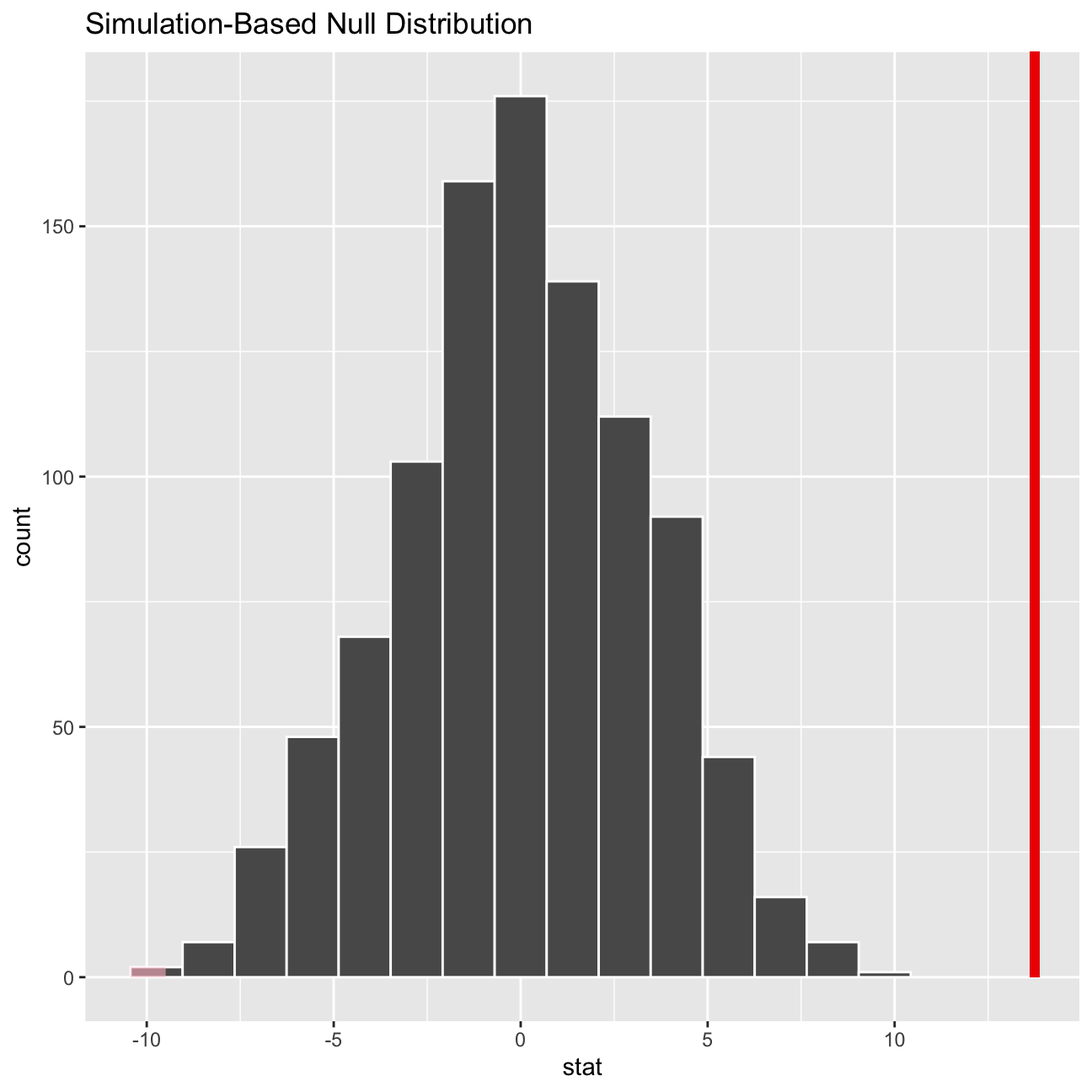
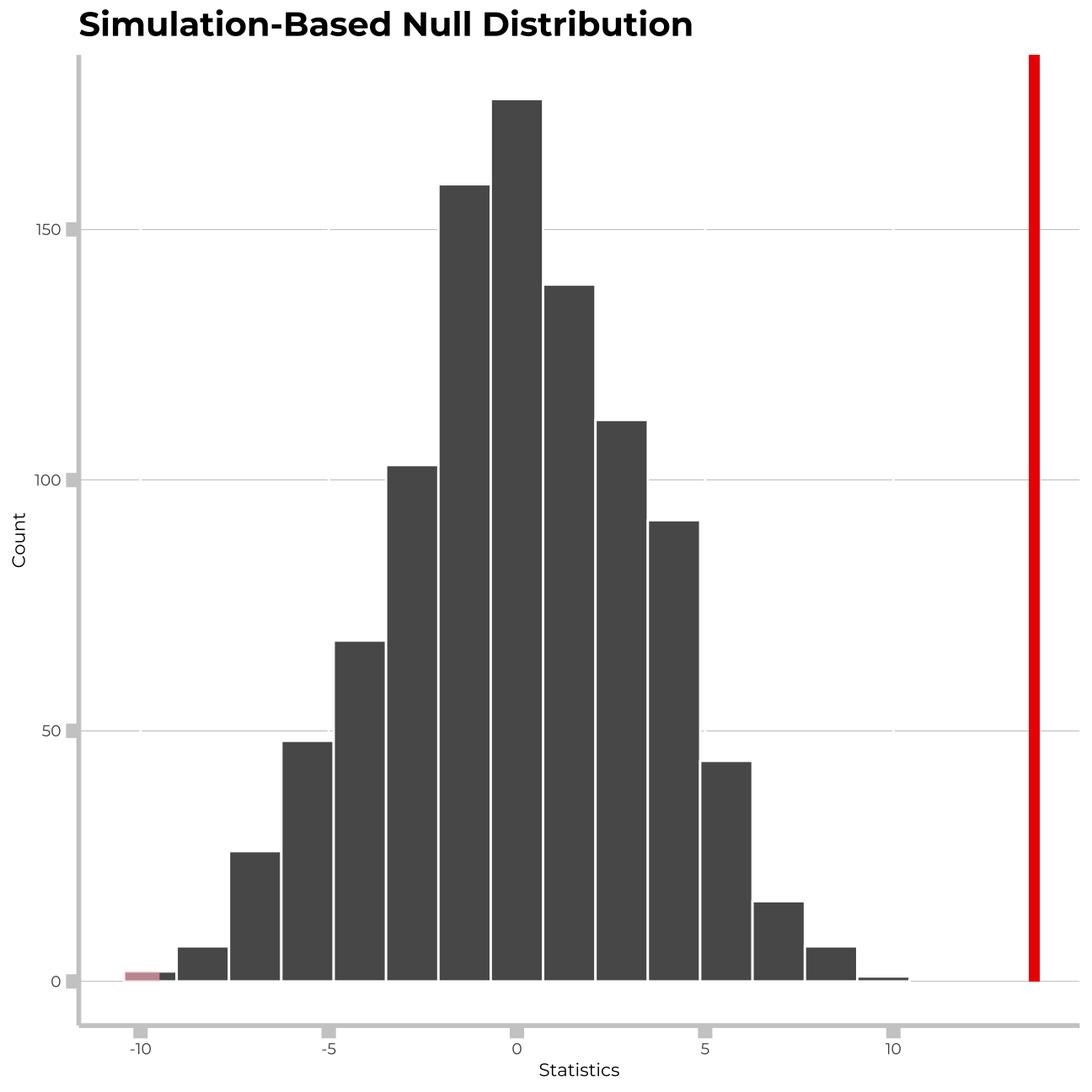
final final project 2

diff --git a/content/portfolio/project-02.html b/content/portfolio/project-02.html
@@ -13,26 +13,25 @@ type: portfolio
 <div id="omega-group-plc--pay-discrimination" class="section level1">
 <h1>Omega Group plc- Pay Discrimination</h1>
 <p>At the last board meeting of Omega Group Plc., the headquarters of a large multinational company, the issue was raised that women were being discriminated in the company, in the sense that the salaries were not the same for male and female executives. A quick analysis of a sample of 50 employees (of which 24 men and 26 women) revealed that the average salary for men was about 8,700 higher than for women. This seemed like a considerable difference, so it was decided that a further analysis of the company salaries was warranted.</p>
-<p>You are asked to carry out the analysis. The objective is to find out whether there is indeed a significant difference between the salaries of men and women, and whether the difference is due to discrimination or whether it is based on another, possibly valid, determining factor.</p>
-<div id="loading-the-data" class="section level2">
-<h2>Loading the data</h2>
-<pre class="r"><code>omega &lt;- omega &lt;- read_csv(&quot;~/Documents/Applied Statistics in R/homeworks/data/omega.csv&quot;)
-glimpse(omega) # examine the data frame</code></pre>
+<p>In this project I will carry out the analysis with the objective to find out whether there is indeed a significant difference between the salaries of men and women, and whether the difference is due to discrimination or whether it is based on another, possibly valid, determining factor.</p>
+<pre class="r"><code>omega &lt;- omega &lt;- read_csv(&quot;~/Documents/Applied Statistics in R/homeworks/data/omega.csv&quot;)</code></pre>
+<pre class="r"><code>glimpse(omega) # examine the data frame</code></pre>
 <pre><code>## Rows: 50
 ## Columns: 3
 ## $ salary     &lt;dbl&gt; 81894, 69517, 68589, 74881, 65598, 76840, 78800, 70033, 63…
 ## $ gender     &lt;chr&gt; &quot;male&quot;, &quot;male&quot;, &quot;male&quot;, &quot;male&quot;, &quot;male&quot;, &quot;male&quot;, &quot;male&quot;, &quot;m…
 ## $ experience &lt;dbl&gt; 16, 25, 15, 33, 16, 19, 32, 34, 1, 44, 7, 14, 33, 19, 24, …</code></pre>
-</div>
 <div id="relationship-salary---gender" class="section level2">
 <h2>Relationship Salary - Gender ?</h2>
-<p>The data frame <code>omega</code> contains the salaries for the sample of 50 executives in the company. Can you conclude that there is a significant difference between the salaries of the male and female executives?</p>
-<p>Note that you can perform different types of analyses, and check whether they all lead to the same conclusion</p>
+<p>The data frame <code>omega</code> contains the salaries for the sample of 50 executives in the company.</p>
+<p>Can we conclude that there is a significant difference between the salaries of the male and female executives?</p>
+<p>To check it, I will perform different types of analyses, and check whether they all lead to the same conclusion</p>
 <p>. Confidence intervals
 . Hypothesis testing
 . Correlation analysis
 . Regression</p>
-<p>Calculate summary statistics on salary by gender. Also, create and print a dataframe where, for each gender, you show the mean, SD, sample size, the t-critical, the SE, the margin of error, and the low/high endpoints of a 95% condifence interval</p>
+<p>I will alculate summary statistics on salary by gender.</p>
+<p>Also, I will create and print a dataframe where, for each gender, I show the mean, SD, sample size, the t-critical, the SE, the margin of error, and the low/high endpoints of a 95% condifence interval</p>
 <pre class="r"><code># Summary Statistics of salary by gender
 df_by_gender&lt;-mosaic::favstats (salary ~ gender, data=omega)
 
@@ -47,18 +46,30 @@ df_by_gender2</code></pre>
 <pre><code>##   gender  mean   sd  n t_critical standard_error upper_95 lower_95
 ## 1 female 64543 7567 26       2.06           1484    67599    61486
 ## 2   male 73239 7463 24       2.07           1523    76390    70088</code></pre>
-<pre class="r"><code># We can see that the confidence intervals for men and women in regards to salary do not overlap. This would allow us to reject the null hypothesis, but we will carry out hypothesis testing anyway and analyse the relationships between all the remaining factors.
+<pre class="r"><code>#I can see that the confidence intervals for men and women in regards to salary do not overlap. This would allow us to reject the null hypothesis, but we will carry out hypothesis testing anyway and analyse the relationships between all the remaining factors.
 
-#We will draw a scatterplot to visually inspect relationship between salary and experience
-
-ggplot(omega,aes(x=experience,y=salary, colour= gender,fill=gender)) +
+#I will draw a scatterplot to visually inspect relationship between salary and experience</code></pre>
+<pre class="r"><code>ggplot(omega,aes(x=experience,y=salary, colour= gender,fill=gender)) +
   geom_point() +
   geom_smooth() +
-  labs(title = &quot;Experience is Valued Highly at Omega&quot;, x=&quot;Years of experience&quot;, y= &quot;Salary (in USD)&quot;) +
-  theme_bw()</code></pre>
-<p><img src="/portfolio/project-02_files/figure-html/confint_single_valiables-1.png" width="648" style="display: block; margin: auto;" /></p>
-<p>We can observe a strong relationship between salary and experience. Increase in salary comes quickly at the beginning and throughout the first ~15 years, however the gains in salary become slower later over time, displaying diminishing marginal returns.</p>
-<p>We will further investigate the difference between salaries by gender through hypothesis testing, utilizing both t.test() and the simulation method from the infer package.</p>
+  labs(title = &quot;Experience is Valued Highly at Omega&quot;, x=&quot;Years of experience&quot;, y= &quot;Salary&quot;) +
+  theme_bw()+
+    scale_y_continuous(labels = scales::dollar) +
+  theme(panel.grid.major.y = element_line(color = &quot;gray60&quot;, size = 0.1),
+        panel.background = element_rect(fill = &quot;white&quot;, colour = &quot;white&quot;),
+        axis.line = element_line(size = 1, colour = &quot;grey80&quot;),
+        axis.ticks = element_line(size = 3,colour = &quot;grey80&quot;),
+        axis.ticks.length = unit(.20, &quot;cm&quot;),
+        plot.title = element_text(color = &quot;black&quot;,size=15,face=&quot;bold&quot;, family= &quot;Montserrat&quot;),
+        axis.title.y = element_text(size = 8, angle = 90, family=&quot;Montserrat&quot;, face = &quot;plain&quot;),
+        axis.text.y=element_text(family=&quot;Montserrat&quot;, size=7),
+        axis.title.x = element_text(size = 8, family=&quot;Montserrat&quot;, face = &quot;plain&quot;),
+        axis.text.x=element_text(family=&quot;Montserrat&quot;, size=7),
+        legend.text=element_text(family=&quot;Montserrat&quot;, size=7),
+        legend.title=element_text(family=&quot;Montserrat&quot;, size=8, face=&quot;bold&quot;))</code></pre>
+<p><img src="/portfolio/project-02_files/figure-html/unnamed-chunk-2-1.png" width="648" style="display: block; margin: auto;" /></p>
+<p>I can observe a strong relationship between salary and experience. Increase in salary comes quickly at the beginning and throughout the first ~15 years, however the gains in salary become slower later over time, displaying diminishing marginal returns.</p>
+<p>I will further investigate the difference between salaries by gender through hypothesis testing, utilizing both t.test() and the simulation method from the infer package.</p>
 <pre class="r"><code># hypothesis testing using t.test() 
 t.test(salary~gender, data=omega)</code></pre>
 <pre><code>## 
@@ -81,7 +92,22 @@ salary_by_gender&lt;- omega %&gt;%
   calculate(stat=&quot;diff in means&quot;,
             order=c(&quot;male&quot;,&quot;female&quot;))
 
-salary_by_gender %&gt;% visualize()+shade_p_value(obs_stat = df_by_gender2[2,2]-df_by_gender2[1,2], direction = &quot;both&quot;)</code></pre>
+salary_by_gender %&gt;% 
+  visualize()+
+  shade_p_value(obs_stat = df_by_gender2[2,2]-df_by_gender2[1,2], direction = &quot;both&quot;)+ 
+    labs(title = &quot;Simulation-Based Null Distribution&quot;, x=&quot;Average Salary&quot;, y= &quot;Count&quot;)+
+  theme(panel.grid.major.y = element_line(color = &quot;gray60&quot;, size = 0.1),
+        panel.background = element_rect(fill = &quot;white&quot;, colour = &quot;white&quot;),
+        axis.line = element_line(size = 1, colour = &quot;grey80&quot;),
+        axis.ticks = element_line(size = 3,colour = &quot;grey80&quot;),
+        axis.ticks.length = unit(.20, &quot;cm&quot;),
+        plot.title = element_text(color = &quot;black&quot;,size=15,face=&quot;bold&quot;, family= &quot;Montserrat&quot;),
+        axis.title.y = element_text(size = 8, angle = 90, family=&quot;Montserrat&quot;, face = &quot;plain&quot;),
+        axis.text.y=element_text(family=&quot;Montserrat&quot;, size=7),
+        axis.title.x = element_text(size = 8, family=&quot;Montserrat&quot;, face = &quot;plain&quot;),
+        axis.text.x=element_text(family=&quot;Montserrat&quot;, size=7),
+        legend.text=element_text(family=&quot;Montserrat&quot;, size=7),
+        legend.title=element_text(family=&quot;Montserrat&quot;, size=8, face=&quot;bold&quot;))</code></pre>
 <p><img src="/portfolio/project-02_files/figure-html/hypothesis_testing-1.png" width="648" style="display: block; margin: auto;" /></p>
 <pre class="r"><code>#now getting p value for conclusion
 
@@ -93,7 +119,7 @@ p_value_by_gender</code></pre>
 ##     &lt;dbl&gt;
 ## 1       0</code></pre>
 <pre class="r"><code>#p_value is tiny, so the null hypothesis can be rejected</code></pre>
-<p>Looking at the graph the x axis ends at 10,000 dollars. The difference in the mean values of the gender salaries is 8,696 dollars. We can see that this results in a p-value close enough to zero, so we can conclude that at a 5% significance level there is a meaningful difference between the mean salaries of men and women.</p>
+<p>Looking at the graph the x axis ends at 10,000 dollars. The difference in the mean values of the gender salaries is 8,696 dollars. I can see that this results in a p-value close enough to zero, so I can conclude that at a 5% significance level there is a meaningful difference between the mean salaries of men and women.</p>
 </div>
 <div id="relationship-experience---gender" class="section level2">
 <h2>Relationship Experience - Gender?</h2>
@@ -147,7 +173,22 @@ set.seed(1234)
     calculate(stat = &quot;diff in means&quot;,
               order = c(&quot;female&quot;, &quot;male&quot;))
   
-  experience_in_null %&gt;% visualize() + shade_p_value(obs_stat = exp_gender_ci[2,2]-exp_gender_ci[1,2], direction = &quot;both&quot;)</code></pre>
+  experience_in_null %&gt;% 
+    visualize() + 
+    shade_p_value(obs_stat = exp_gender_ci[2,2]-exp_gender_ci[1,2], direction = &quot;both&quot;)+
+    labs(title = &quot;Simulation-Based Null Distribution&quot;, x=&quot;Statistics&quot;, y= &quot;Count&quot;)+
+  theme(panel.grid.major.y = element_line(color = &quot;gray60&quot;, size = 0.1),
+        panel.background = element_rect(fill = &quot;white&quot;, colour = &quot;white&quot;),
+        axis.line = element_line(size = 1, colour = &quot;grey80&quot;),
+        axis.ticks = element_line(size = 3,colour = &quot;grey80&quot;),
+        axis.ticks.length = unit(.20, &quot;cm&quot;),
+        plot.title = element_text(color = &quot;black&quot;,size=15,face=&quot;bold&quot;, family= &quot;Montserrat&quot;),
+        axis.title.y = element_text(size = 8, angle = 90, family=&quot;Montserrat&quot;, face = &quot;plain&quot;),
+        axis.text.y=element_text(family=&quot;Montserrat&quot;, size=7),
+        axis.title.x = element_text(size = 8, family=&quot;Montserrat&quot;, face = &quot;plain&quot;),
+        axis.text.x=element_text(family=&quot;Montserrat&quot;, size=7),
+        legend.text=element_text(family=&quot;Montserrat&quot;, size=7),
+        legend.title=element_text(family=&quot;Montserrat&quot;, size=8, face=&quot;bold&quot;))</code></pre>
 <p><img src="/portfolio/project-02_files/figure-html/experience_stats-1.png" width="648" style="display: block; margin: auto;" /></p>
 <pre class="r"><code>#now getting p value for conclusion
 
@@ -164,28 +205,54 @@ p_value_exp_gender</code></pre>
 <div id="relationship-salary---experience" class="section level2">
 <h2>Relationship Salary - Experience ?</h2>
 <p>Someone at the meeting argues that clearly, a more thorough analysis of the relationship between salary and experience is required before any conclusion can be drawn about whether there is any gender-based salary discrimination in the company.</p>
-<p>Analyse the relationship between salary and experience. Draw a scatterplot to visually inspect the data.</p>
+<p>I will now analyse the relationship between salary and experience &amp; draw a scatterplot to visually inspect the data.</p>
 <pre class="r"><code>#We will draw a scatterplot to visually inspect relationship between salary and experience
 
   ggplot(omega,aes(x=experience,y=salary, colour= gender,fill=gender)) +
   geom_point() +
   geom_smooth(method = &#39;gam&#39;) +
-  labs(title = &quot;We can observe a strong relationship between salary and experience&quot;, x=&quot;Years of experience&quot;, y= &quot;Salary&quot;) +
+  labs(title = &quot;We can observe a strong relationship \nbetween salary and experience&quot;, x=&quot;Years of experience&quot;, y= &quot;Salary&quot;) +
   theme_bw() +
+  theme(panel.grid.major.y = element_line(color = &quot;gray60&quot;, size = 0.1),
+        panel.background = element_rect(fill = &quot;white&quot;, colour = &quot;white&quot;),
+        axis.line = element_line(size = 1, colour = &quot;grey80&quot;),
+        axis.ticks = element_line(size = 3,colour = &quot;grey80&quot;),
+        axis.ticks.length = unit(.20, &quot;cm&quot;),
+        plot.title = element_text(color = &quot;black&quot;,size=15,face=&quot;bold&quot;, family= &quot;Montserrat&quot;),
+        axis.title.y = element_text(size = 8, angle = 90, family=&quot;Montserrat&quot;, face = &quot;plain&quot;),
+        axis.text.y=element_text(family=&quot;Montserrat&quot;, size=7),
+        axis.title.x = element_text(size = 8, family=&quot;Montserrat&quot;, face = &quot;plain&quot;),
+        axis.text.x=element_text(family=&quot;Montserrat&quot;, size=7),
+        legend.text=element_text(family=&quot;Montserrat&quot;, size=7),
+        legend.title=element_text(family=&quot;Montserrat&quot;, size=8, face=&quot;bold&quot;))+
   scale_y_continuous(labels= scales::dollar)</code></pre>
 <p><img src="/portfolio/project-02_files/figure-html/salary_exp_scatter-1.png" width="648" style="display: block; margin: auto;" /></p>
 <pre class="r"><code>#We can observe a strong relationship between salary and experience. Increase in salary comes quickly at the beginning throughout first ~15 years, however the gains in salary become slower later over time.</code></pre>
-<p>As our analysis above shows, there is a significant positive relationship between years of experience and salary. We can also see what was confirmed in the previous section, that women have significantly less experience than men, with a cut off point displayed above at around 30 years. This gives an alternative reasoning besides discrimination regarding the pay gap, as more years of experience are a valuable asset that is accordingly financially rewarded with a greater salary.</p>
+<p>As my analysis above shows, there is a significant positive relationship between years of experience and salary. I can also see what was confirmed in the previous section, that women have significantly less experience than men, with a cut off point displayed above at around 30 years. This gives an alternative reasoning besides discrimination regarding the pay gap, as more years of experience are a valuable asset that is accordingly financially rewarded with a greater salary.</p>
 </div>
 <div id="check-correlations-between-the-data" class="section level2">
 <h2>Check correlations between the data</h2>
-<p>You can use <code>GGally:ggpairs()</code> to create a scatterplot and correlation matrix. Essentially, we change the order our variables will appear in and have the dependent variable (Y), salary, as last in our list. We then pipe the dataframe to <code>ggpairs()</code> with <code>aes</code> arguments to colour by <code>gender</code> and make ths plots somewhat transparent (<code>alpha  = 0.3</code>).</p>
+<p>I will use <code>GGally:ggpairs()</code> to create a scatterplot and correlation matrix. Essentially, I change the order our variables will appear in and have the dependent variable (Y), salary, as last in our list. I will then pipe the dataframe to <code>ggpairs()</code> with <code>aes</code> arguments to colour by <code>gender</code> and make ths plots somewhat transparent (<code>alpha  = 0.3</code>).</p>
 <pre class="r"><code>omega %&gt;% 
   select(gender, experience, salary) %&gt;% #order variables they will appear in ggpairs()
   ggpairs(aes(colour=gender, alpha = 0.3))+
-  theme_bw()</code></pre>
+  theme_bw()+
+  theme(panel.grid.major.y = element_line(color = &quot;gray60&quot;, size = 0.1),
+        strip.text= element_text(family=&quot;Montserrat&quot;, face = &quot;plain&quot;),
+        panel.background = element_rect(fill = &quot;white&quot;, colour = &quot;white&quot;),
+        axis.line = element_line(size = 1, colour = &quot;grey80&quot;),
+        axis.ticks = element_line(size = 3,colour = &quot;grey80&quot;),
+        axis.ticks.length = unit(.20, &quot;cm&quot;),
+        plot.title = element_text(color = &quot;black&quot;,size=15,face=&quot;bold&quot;, family= &quot;Montserrat&quot;),
+        axis.title.y = element_text(size = 8, angle = 90, family=&quot;Montserrat&quot;, face = &quot;plain&quot;),
+        axis.text.y=element_text(family=&quot;Montserrat&quot;, size=7),
+        axis.title.x = element_text(size = 8, family=&quot;Montserrat&quot;, face = &quot;plain&quot;),
+        axis.text.x=element_text(family=&quot;Montserrat&quot;, size=7),
+        legend.text=element_text(family=&quot;Montserrat&quot;, size=7),
+        legend.title=element_text(family=&quot;Montserrat&quot;, size=8, face=&quot;bold&quot;))</code></pre>
 <p><img src="/portfolio/project-02_files/figure-html/ggpairs-1.png" width="648" style="display: block; margin: auto;" /></p>
 <p>From the scatterplot we can see that the majority of women in the sample have a comparable salary to men with the same experience level.</p>
-<p>The majority of women in the sample have experience between 0 and 20 years, whereas the approximate range of experience for most men is between 10 and 35 years. We also saw above that there is a statistically significant difference between the levels of experience for both genders, which confirms what we are seeing. Women seem to end their careers earlier, at least within the given sample.</p>
+<p>The majority of women in the sample have experience between 0 and 20 years, whereas the approximate range of experience for most men is between 10 and 35 years. I also saw above that there is a statistically significant difference between the levels of experience for both genders, which confirms what we are seeing. Women seem to end their careers earlier, at least within the given sample.</p>
+<p>Thank you!</p>
 </div>
 </div>

diff --git a/public/portfolio/project-02/index.html b/public/portfolio/project-02/index.html
@@ -104,26 +104,25 @@
 <div id="omega-group-plc--pay-discrimination" class="section level1">
 <h1>Omega Group plc- Pay Discrimination</h1>
 <p>At the last board meeting of Omega Group Plc., the headquarters of a large multinational company, the issue was raised that women were being discriminated in the company, in the sense that the salaries were not the same for male and female executives. A quick analysis of a sample of 50 employees (of which 24 men and 26 women) revealed that the average salary for men was about 8,700 higher than for women. This seemed like a considerable difference, so it was decided that a further analysis of the company salaries was warranted.</p>
-<p>You are asked to carry out the analysis. The objective is to find out whether there is indeed a significant difference between the salaries of men and women, and whether the difference is due to discrimination or whether it is based on another, possibly valid, determining factor.</p>
-<div id="loading-the-data" class="section level2">
-<h2>Loading the data</h2>
-<pre class="r"><code>omega &lt;- omega &lt;- read_csv(&quot;~/Documents/Applied Statistics in R/homeworks/data/omega.csv&quot;)
-glimpse(omega) # examine the data frame</code></pre>
+<p>In this project I will carry out the analysis with the objective to find out whether there is indeed a significant difference between the salaries of men and women, and whether the difference is due to discrimination or whether it is based on another, possibly valid, determining factor.</p>
+<pre class="r"><code>omega &lt;- omega &lt;- read_csv(&quot;~/Documents/Applied Statistics in R/homeworks/data/omega.csv&quot;)</code></pre>
+<pre class="r"><code>glimpse(omega) # examine the data frame</code></pre>
 <pre><code>## Rows: 50
 ## Columns: 3
 ## $ salary     &lt;dbl&gt; 81894, 69517, 68589, 74881, 65598, 76840, 78800, 70033, 63…
 ## $ gender     &lt;chr&gt; &quot;male&quot;, &quot;male&quot;, &quot;male&quot;, &quot;male&quot;, &quot;male&quot;, &quot;male&quot;, &quot;male&quot;, &quot;m…
 ## $ experience &lt;dbl&gt; 16, 25, 15, 33, 16, 19, 32, 34, 1, 44, 7, 14, 33, 19, 24, …</code></pre>
-</div>
 <div id="relationship-salary---gender" class="section level2">
 <h2>Relationship Salary - Gender ?</h2>
-<p>The data frame <code>omega</code> contains the salaries for the sample of 50 executives in the company. Can you conclude that there is a significant difference between the salaries of the male and female executives?</p>
-<p>Note that you can perform different types of analyses, and check whether they all lead to the same conclusion</p>
+<p>The data frame <code>omega</code> contains the salaries for the sample of 50 executives in the company.</p>
+<p>Can we conclude that there is a significant difference between the salaries of the male and female executives?</p>
+<p>To check it, I will perform different types of analyses, and check whether they all lead to the same conclusion</p>
 <p>. Confidence intervals
 . Hypothesis testing
 . Correlation analysis
 . Regression</p>
-<p>Calculate summary statistics on salary by gender. Also, create and print a dataframe where, for each gender, you show the mean, SD, sample size, the t-critical, the SE, the margin of error, and the low/high endpoints of a 95% condifence interval</p>
+<p>I will alculate summary statistics on salary by gender.</p>
+<p>Also, I will create and print a dataframe where, for each gender, I show the mean, SD, sample size, the t-critical, the SE, the margin of error, and the low/high endpoints of a 95% condifence interval</p>
 <pre class="r"><code># Summary Statistics of salary by gender
 df_by_gender&lt;-mosaic::favstats (salary ~ gender, data=omega)
 
@@ -138,18 +137,30 @@ df_by_gender2</code></pre>
 <pre><code>##   gender  mean   sd  n t_critical standard_error upper_95 lower_95
 ## 1 female 64543 7567 26       2.06           1484    67599    61486
 ## 2   male 73239 7463 24       2.07           1523    76390    70088</code></pre>
-<pre class="r"><code># We can see that the confidence intervals for men and women in regards to salary do not overlap. This would allow us to reject the null hypothesis, but we will carry out hypothesis testing anyway and analyse the relationships between all the remaining factors.
+<pre class="r"><code>#I can see that the confidence intervals for men and women in regards to salary do not overlap. This would allow us to reject the null hypothesis, but we will carry out hypothesis testing anyway and analyse the relationships between all the remaining factors.
 
-#We will draw a scatterplot to visually inspect relationship between salary and experience
-
-ggplot(omega,aes(x=experience,y=salary, colour= gender,fill=gender)) +
+#I will draw a scatterplot to visually inspect relationship between salary and experience</code></pre>
+<pre class="r"><code>ggplot(omega,aes(x=experience,y=salary, colour= gender,fill=gender)) +
   geom_point() +
   geom_smooth() +
-  labs(title = &quot;Experience is Valued Highly at Omega&quot;, x=&quot;Years of experience&quot;, y= &quot;Salary (in USD)&quot;) +
-  theme_bw()</code></pre>
-<p><img src="/portfolio/project-02_files/figure-html/confint_single_valiables-1.png" width="648" style="display: block; margin: auto;" /></p>
-<p>We can observe a strong relationship between salary and experience. Increase in salary comes quickly at the beginning and throughout the first ~15 years, however the gains in salary become slower later over time, displaying diminishing marginal returns.</p>
-<p>We will further investigate the difference between salaries by gender through hypothesis testing, utilizing both t.test() and the simulation method from the infer package.</p>
+  labs(title = &quot;Experience is Valued Highly at Omega&quot;, x=&quot;Years of experience&quot;, y= &quot;Salary&quot;) +
+  theme_bw()+
+    scale_y_continuous(labels = scales::dollar) +
+  theme(panel.grid.major.y = element_line(color = &quot;gray60&quot;, size = 0.1),
+        panel.background = element_rect(fill = &quot;white&quot;, colour = &quot;white&quot;),
+        axis.line = element_line(size = 1, colour = &quot;grey80&quot;),
+        axis.ticks = element_line(size = 3,colour = &quot;grey80&quot;),
+        axis.ticks.length = unit(.20, &quot;cm&quot;),
+        plot.title = element_text(color = &quot;black&quot;,size=15,face=&quot;bold&quot;, family= &quot;Montserrat&quot;),
+        axis.title.y = element_text(size = 8, angle = 90, family=&quot;Montserrat&quot;, face = &quot;plain&quot;),
+        axis.text.y=element_text(family=&quot;Montserrat&quot;, size=7),
+        axis.title.x = element_text(size = 8, family=&quot;Montserrat&quot;, face = &quot;plain&quot;),
+        axis.text.x=element_text(family=&quot;Montserrat&quot;, size=7),
+        legend.text=element_text(family=&quot;Montserrat&quot;, size=7),
+        legend.title=element_text(family=&quot;Montserrat&quot;, size=8, face=&quot;bold&quot;))</code></pre>
+<p><img src="/portfolio/project-02_files/figure-html/unnamed-chunk-2-1.png" width="648" style="display: block; margin: auto;" /></p>
+<p>I can observe a strong relationship between salary and experience. Increase in salary comes quickly at the beginning and throughout the first ~15 years, however the gains in salary become slower later over time, displaying diminishing marginal returns.</p>
+<p>I will further investigate the difference between salaries by gender through hypothesis testing, utilizing both t.test() and the simulation method from the infer package.</p>
 <pre class="r"><code># hypothesis testing using t.test() 
 t.test(salary~gender, data=omega)</code></pre>
 <pre><code>## 
@@ -172,7 +183,22 @@ salary_by_gender&lt;- omega %&gt;%
   calculate(stat=&quot;diff in means&quot;,
             order=c(&quot;male&quot;,&quot;female&quot;))
 
-salary_by_gender %&gt;% visualize()+shade_p_value(obs_stat = df_by_gender2[2,2]-df_by_gender2[1,2], direction = &quot;both&quot;)</code></pre>
+salary_by_gender %&gt;% 
+  visualize()+
+  shade_p_value(obs_stat = df_by_gender2[2,2]-df_by_gender2[1,2], direction = &quot;both&quot;)+ 
+    labs(title = &quot;Simulation-Based Null Distribution&quot;, x=&quot;Average Salary&quot;, y= &quot;Count&quot;)+
+  theme(panel.grid.major.y = element_line(color = &quot;gray60&quot;, size = 0.1),
+        panel.background = element_rect(fill = &quot;white&quot;, colour = &quot;white&quot;),
+        axis.line = element_line(size = 1, colour = &quot;grey80&quot;),
+        axis.ticks = element_line(size = 3,colour = &quot;grey80&quot;),
+        axis.ticks.length = unit(.20, &quot;cm&quot;),
+        plot.title = element_text(color = &quot;black&quot;,size=15,face=&quot;bold&quot;, family= &quot;Montserrat&quot;),
+        axis.title.y = element_text(size = 8, angle = 90, family=&quot;Montserrat&quot;, face = &quot;plain&quot;),
+        axis.text.y=element_text(family=&quot;Montserrat&quot;, size=7),
+        axis.title.x = element_text(size = 8, family=&quot;Montserrat&quot;, face = &quot;plain&quot;),
+        axis.text.x=element_text(family=&quot;Montserrat&quot;, size=7),
+        legend.text=element_text(family=&quot;Montserrat&quot;, size=7),
+        legend.title=element_text(family=&quot;Montserrat&quot;, size=8, face=&quot;bold&quot;))</code></pre>
 <p><img src="/portfolio/project-02_files/figure-html/hypothesis_testing-1.png" width="648" style="display: block; margin: auto;" /></p>
 <pre class="r"><code>#now getting p value for conclusion
 
@@ -184,7 +210,7 @@ p_value_by_gender</code></pre>
 ##     &lt;dbl&gt;
 ## 1       0</code></pre>
 <pre class="r"><code>#p_value is tiny, so the null hypothesis can be rejected</code></pre>
-<p>Looking at the graph the x axis ends at 10,000 dollars. The difference in the mean values of the gender salaries is 8,696 dollars. We can see that this results in a p-value close enough to zero, so we can conclude that at a 5% significance level there is a meaningful difference between the mean salaries of men and women.</p>
+<p>Looking at the graph the x axis ends at 10,000 dollars. The difference in the mean values of the gender salaries is 8,696 dollars. I can see that this results in a p-value close enough to zero, so I can conclude that at a 5% significance level there is a meaningful difference between the mean salaries of men and women.</p>
 </div>
 <div id="relationship-experience---gender" class="section level2">
 <h2>Relationship Experience - Gender?</h2>
@@ -238,7 +264,22 @@ set.seed(1234)
     calculate(stat = &quot;diff in means&quot;,
               order = c(&quot;female&quot;, &quot;male&quot;))
   
-  experience_in_null %&gt;% visualize() + shade_p_value(obs_stat = exp_gender_ci[2,2]-exp_gender_ci[1,2], direction = &quot;both&quot;)</code></pre>
+  experience_in_null %&gt;% 
+    visualize() + 
+    shade_p_value(obs_stat = exp_gender_ci[2,2]-exp_gender_ci[1,2], direction = &quot;both&quot;)+
+    labs(title = &quot;Simulation-Based Null Distribution&quot;, x=&quot;Statistics&quot;, y= &quot;Count&quot;)+
+  theme(panel.grid.major.y = element_line(color = &quot;gray60&quot;, size = 0.1),
+        panel.background = element_rect(fill = &quot;white&quot;, colour = &quot;white&quot;),
+        axis.line = element_line(size = 1, colour = &quot;grey80&quot;),
+        axis.ticks = element_line(size = 3,colour = &quot;grey80&quot;),
+        axis.ticks.length = unit(.20, &quot;cm&quot;),
+        plot.title = element_text(color = &quot;black&quot;,size=15,face=&quot;bold&quot;, family= &quot;Montserrat&quot;),
+        axis.title.y = element_text(size = 8, angle = 90, family=&quot;Montserrat&quot;, face = &quot;plain&quot;),
+        axis.text.y=element_text(family=&quot;Montserrat&quot;, size=7),
+        axis.title.x = element_text(size = 8, family=&quot;Montserrat&quot;, face = &quot;plain&quot;),
+        axis.text.x=element_text(family=&quot;Montserrat&quot;, size=7),
+        legend.text=element_text(family=&quot;Montserrat&quot;, size=7),
+        legend.title=element_text(family=&quot;Montserrat&quot;, size=8, face=&quot;bold&quot;))</code></pre>
 <p><img src="/portfolio/project-02_files/figure-html/experience_stats-1.png" width="648" style="display: block; margin: auto;" /></p>
 <pre class="r"><code>#now getting p value for conclusion
 
@@ -255,29 +296,55 @@ p_value_exp_gender</code></pre>
 <div id="relationship-salary---experience" class="section level2">
 <h2>Relationship Salary - Experience ?</h2>
 <p>Someone at the meeting argues that clearly, a more thorough analysis of the relationship between salary and experience is required before any conclusion can be drawn about whether there is any gender-based salary discrimination in the company.</p>
-<p>Analyse the relationship between salary and experience. Draw a scatterplot to visually inspect the data.</p>
+<p>I will now analyse the relationship between salary and experience &amp; draw a scatterplot to visually inspect the data.</p>
 <pre class="r"><code>#We will draw a scatterplot to visually inspect relationship between salary and experience
 
   ggplot(omega,aes(x=experience,y=salary, colour= gender,fill=gender)) +
   geom_point() +
   geom_smooth(method = &#39;gam&#39;) +
-  labs(title = &quot;We can observe a strong relationship between salary and experience&quot;, x=&quot;Years of experience&quot;, y= &quot;Salary&quot;) +
+  labs(title = &quot;We can observe a strong relationship \nbetween salary and experience&quot;, x=&quot;Years of experience&quot;, y= &quot;Salary&quot;) +
   theme_bw() +
+  theme(panel.grid.major.y = element_line(color = &quot;gray60&quot;, size = 0.1),
+        panel.background = element_rect(fill = &quot;white&quot;, colour = &quot;white&quot;),
+        axis.line = element_line(size = 1, colour = &quot;grey80&quot;),
+        axis.ticks = element_line(size = 3,colour = &quot;grey80&quot;),
+        axis.ticks.length = unit(.20, &quot;cm&quot;),
+        plot.title = element_text(color = &quot;black&quot;,size=15,face=&quot;bold&quot;, family= &quot;Montserrat&quot;),
+        axis.title.y = element_text(size = 8, angle = 90, family=&quot;Montserrat&quot;, face = &quot;plain&quot;),
+        axis.text.y=element_text(family=&quot;Montserrat&quot;, size=7),
+        axis.title.x = element_text(size = 8, family=&quot;Montserrat&quot;, face = &quot;plain&quot;),
+        axis.text.x=element_text(family=&quot;Montserrat&quot;, size=7),
+        legend.text=element_text(family=&quot;Montserrat&quot;, size=7),
+        legend.title=element_text(family=&quot;Montserrat&quot;, size=8, face=&quot;bold&quot;))+
   scale_y_continuous(labels= scales::dollar)</code></pre>
 <p><img src="/portfolio/project-02_files/figure-html/salary_exp_scatter-1.png" width="648" style="display: block; margin: auto;" /></p>
 <pre class="r"><code>#We can observe a strong relationship between salary and experience. Increase in salary comes quickly at the beginning throughout first ~15 years, however the gains in salary become slower later over time.</code></pre>
-<p>As our analysis above shows, there is a significant positive relationship between years of experience and salary. We can also see what was confirmed in the previous section, that women have significantly less experience than men, with a cut off point displayed above at around 30 years. This gives an alternative reasoning besides discrimination regarding the pay gap, as more years of experience are a valuable asset that is accordingly financially rewarded with a greater salary.</p>
+<p>As my analysis above shows, there is a significant positive relationship between years of experience and salary. I can also see what was confirmed in the previous section, that women have significantly less experience than men, with a cut off point displayed above at around 30 years. This gives an alternative reasoning besides discrimination regarding the pay gap, as more years of experience are a valuable asset that is accordingly financially rewarded with a greater salary.</p>
 </div>
 <div id="check-correlations-between-the-data" class="section level2">
 <h2>Check correlations between the data</h2>
-<p>You can use <code>GGally:ggpairs()</code> to create a scatterplot and correlation matrix. Essentially, we change the order our variables will appear in and have the dependent variable (Y), salary, as last in our list. We then pipe the dataframe to <code>ggpairs()</code> with <code>aes</code> arguments to colour by <code>gender</code> and make ths plots somewhat transparent (<code>alpha  = 0.3</code>).</p>
+<p>I will use <code>GGally:ggpairs()</code> to create a scatterplot and correlation matrix. Essentially, I change the order our variables will appear in and have the dependent variable (Y), salary, as last in our list. I will then pipe the dataframe to <code>ggpairs()</code> with <code>aes</code> arguments to colour by <code>gender</code> and make ths plots somewhat transparent (<code>alpha  = 0.3</code>).</p>
 <pre class="r"><code>omega %&gt;% 
   select(gender, experience, salary) %&gt;% #order variables they will appear in ggpairs()
   ggpairs(aes(colour=gender, alpha = 0.3))+
-  theme_bw()</code></pre>
+  theme_bw()+
+  theme(panel.grid.major.y = element_line(color = &quot;gray60&quot;, size = 0.1),
+        strip.text= element_text(family=&quot;Montserrat&quot;, face = &quot;plain&quot;),
+        panel.background = element_rect(fill = &quot;white&quot;, colour = &quot;white&quot;),
+        axis.line = element_line(size = 1, colour = &quot;grey80&quot;),
+        axis.ticks = element_line(size = 3,colour = &quot;grey80&quot;),
+        axis.ticks.length = unit(.20, &quot;cm&quot;),
+        plot.title = element_text(color = &quot;black&quot;,size=15,face=&quot;bold&quot;, family= &quot;Montserrat&quot;),
+        axis.title.y = element_text(size = 8, angle = 90, family=&quot;Montserrat&quot;, face = &quot;plain&quot;),
+        axis.text.y=element_text(family=&quot;Montserrat&quot;, size=7),
+        axis.title.x = element_text(size = 8, family=&quot;Montserrat&quot;, face = &quot;plain&quot;),
+        axis.text.x=element_text(family=&quot;Montserrat&quot;, size=7),
+        legend.text=element_text(family=&quot;Montserrat&quot;, size=7),
+        legend.title=element_text(family=&quot;Montserrat&quot;, size=8, face=&quot;bold&quot;))</code></pre>
 <p><img src="/portfolio/project-02_files/figure-html/ggpairs-1.png" width="648" style="display: block; margin: auto;" /></p>
 <p>From the scatterplot we can see that the majority of women in the sample have a comparable salary to men with the same experience level.</p>
-<p>The majority of women in the sample have experience between 0 and 20 years, whereas the approximate range of experience for most men is between 10 and 35 years. We also saw above that there is a statistically significant difference between the levels of experience for both genders, which confirms what we are seeing. Women seem to end their careers earlier, at least within the given sample.</p>
+<p>The majority of women in the sample have experience between 0 and 20 years, whereas the approximate range of experience for most men is between 10 and 35 years. I also saw above that there is a statistically significant difference between the levels of experience for both genders, which confirms what we are seeing. Women seem to end their careers earlier, at least within the given sample.</p>
+<p>Thank you!</p>
 </div>
 </div>
 
